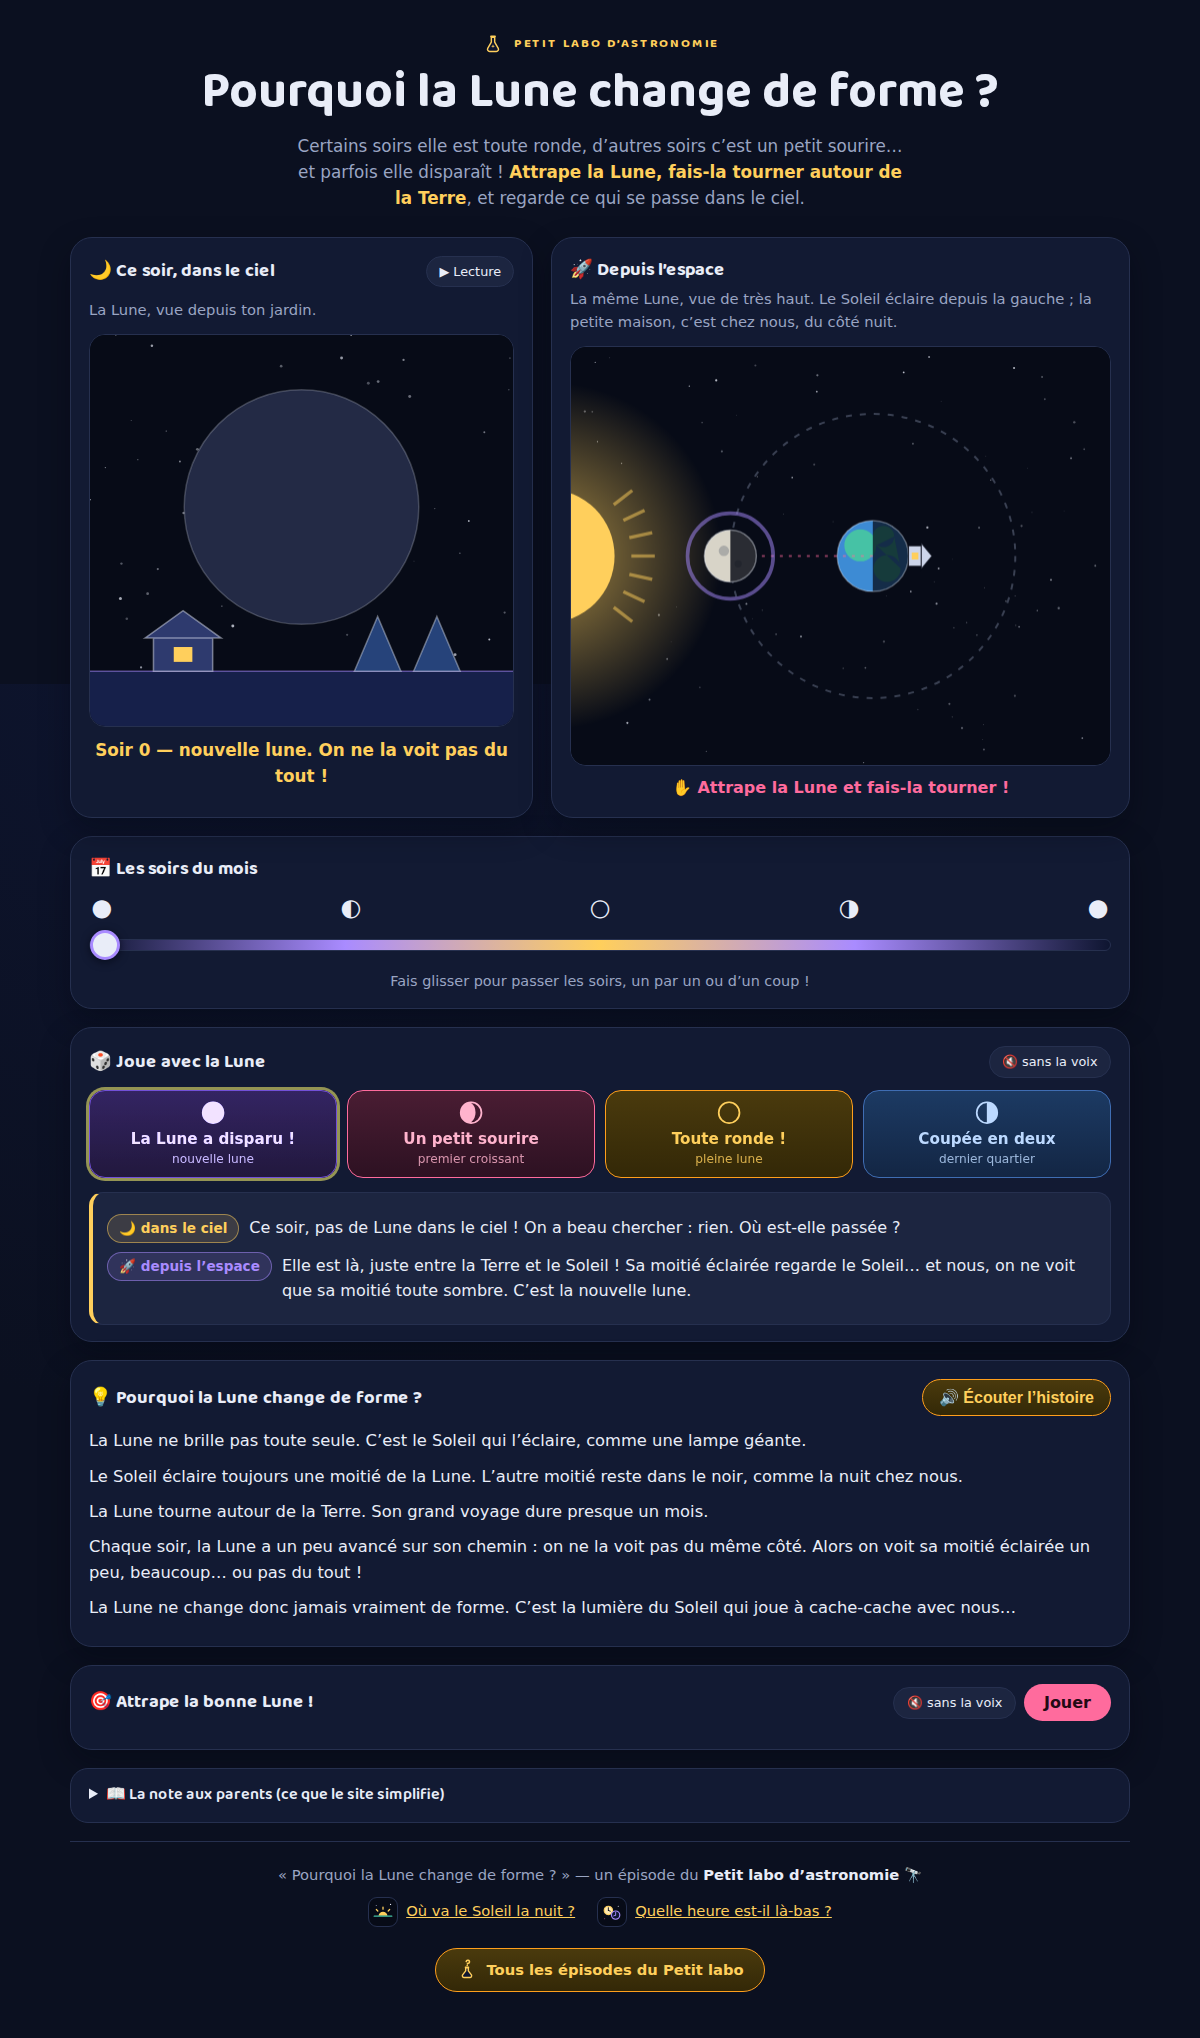
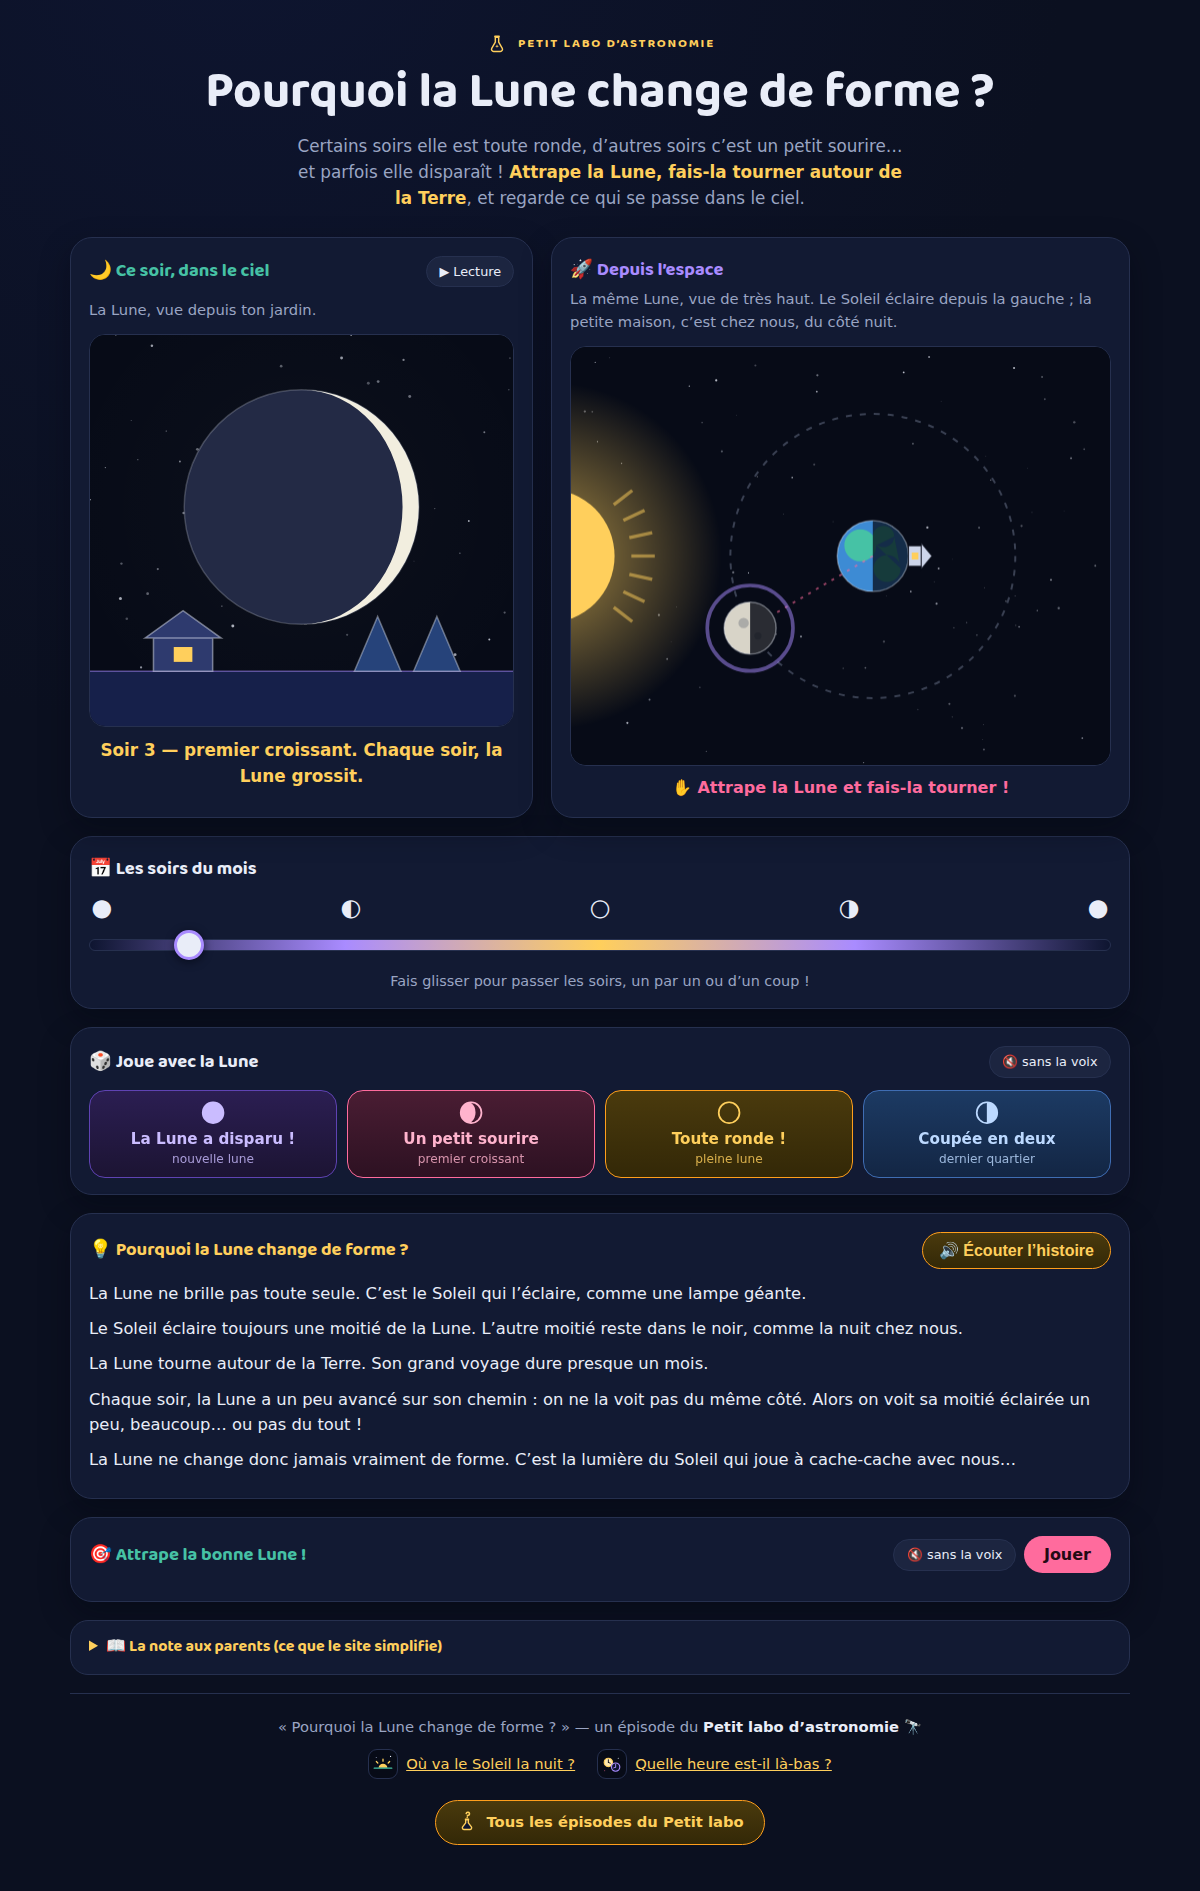
feat: les titres adoptent la charte couleur = fonction de la famille
Revue des trois épisodes : le même « 🚀 Depuis l'espace » se rendait
blanc ici, gris dans la-terre-tourne, violet dans ou-va-le-soleil. On
généralise le patron d'ou-va-le-soleil, le plus abouti : l'or explique
(boîte « pourquoi », note aux parents), le teal se vit depuis chez toi
(le ciel du soir, le jeu), le violet regarde depuis l'espace ; le blanc
reste au h1 et aux titres-outils (curseur, scénarios).

Ici : hublot en teal, orbite en violet, jeu en teal, explication en or,
note aux parents en or 700 (patron .parents summary de la famille).
Captures du README régénérées.

Claude-Session: https://claude.ai/code/session_01Gy3CWnx1onJu3TYZ9yengD

Changed region(s): [[0.0617, 0.0, 0.925, 0.9984], [0.6783, 0.2496, 0.7708, 0.312]]

diff --git a/css/style.css b/css/style.css
@@ -125,6 +125,16 @@ main, header.entete, footer.pied-serie {
 
 .carte h2 { font-size: 1.15rem; }
 
+/* la charte des titres de la famille : couleur = fonction (patron
+   d'ou-va-le-soleil). L'or explique (boîte « pourquoi », note aux
+   parents), le teal se vit depuis chez toi (le ciel du soir, le jeu),
+   le violet regarde depuis l'espace ; le blanc reste au h1 et aux
+   titres-outils (curseur, scénarios). */
+.carte-hublot h2 { color: var(--teal); }
+.carte-orbite h2 { color: var(--violet); }
+.carte-jeu h2 { color: var(--teal); }
+.carte-explication h2 { color: var(--sun); }
+
 .sous-titre { color: var(--muted); font-size: 0.92rem; margin: 4px 0 12px; }
 
 /* ---------- Les deux vues ---------- */
@@ -582,8 +592,9 @@ input[type="range"]:focus-visible { outline-offset: 4px; border-radius: 999px; }
 
 .note-parents summary {
   cursor: pointer;
-  color: var(--text);
-  font-weight: 600;
+  /* or et graisse 700 : le patron .parents summary de la famille */
+  color: var(--sun);
+  font-weight: 700;
   font-size: 1rem;
 }
 
